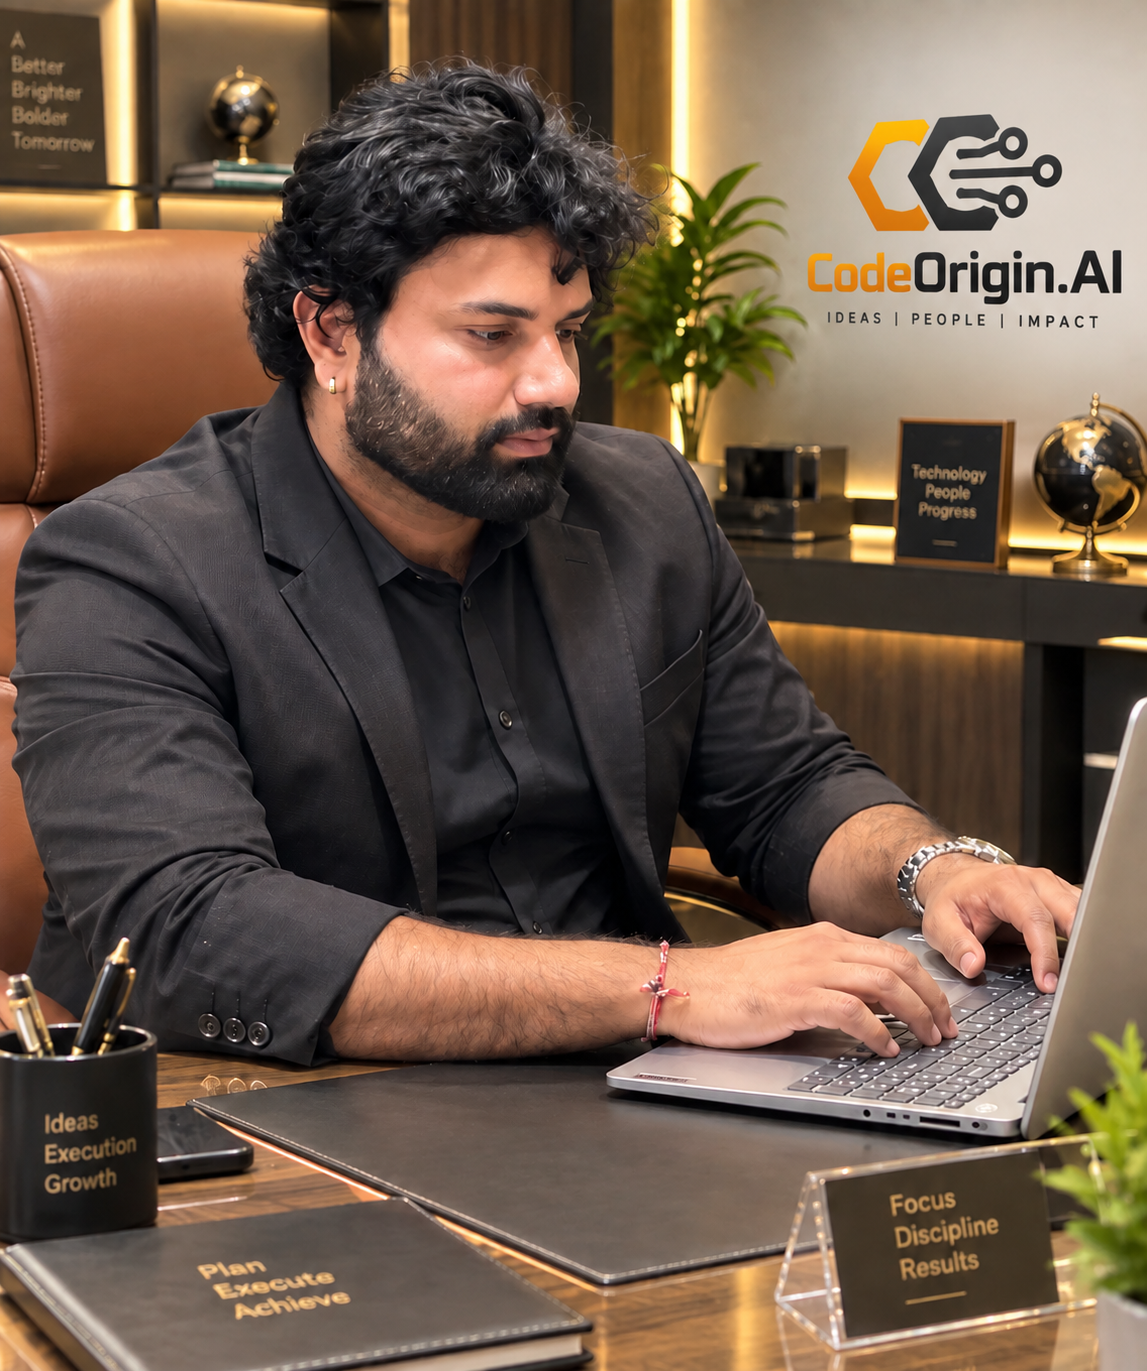
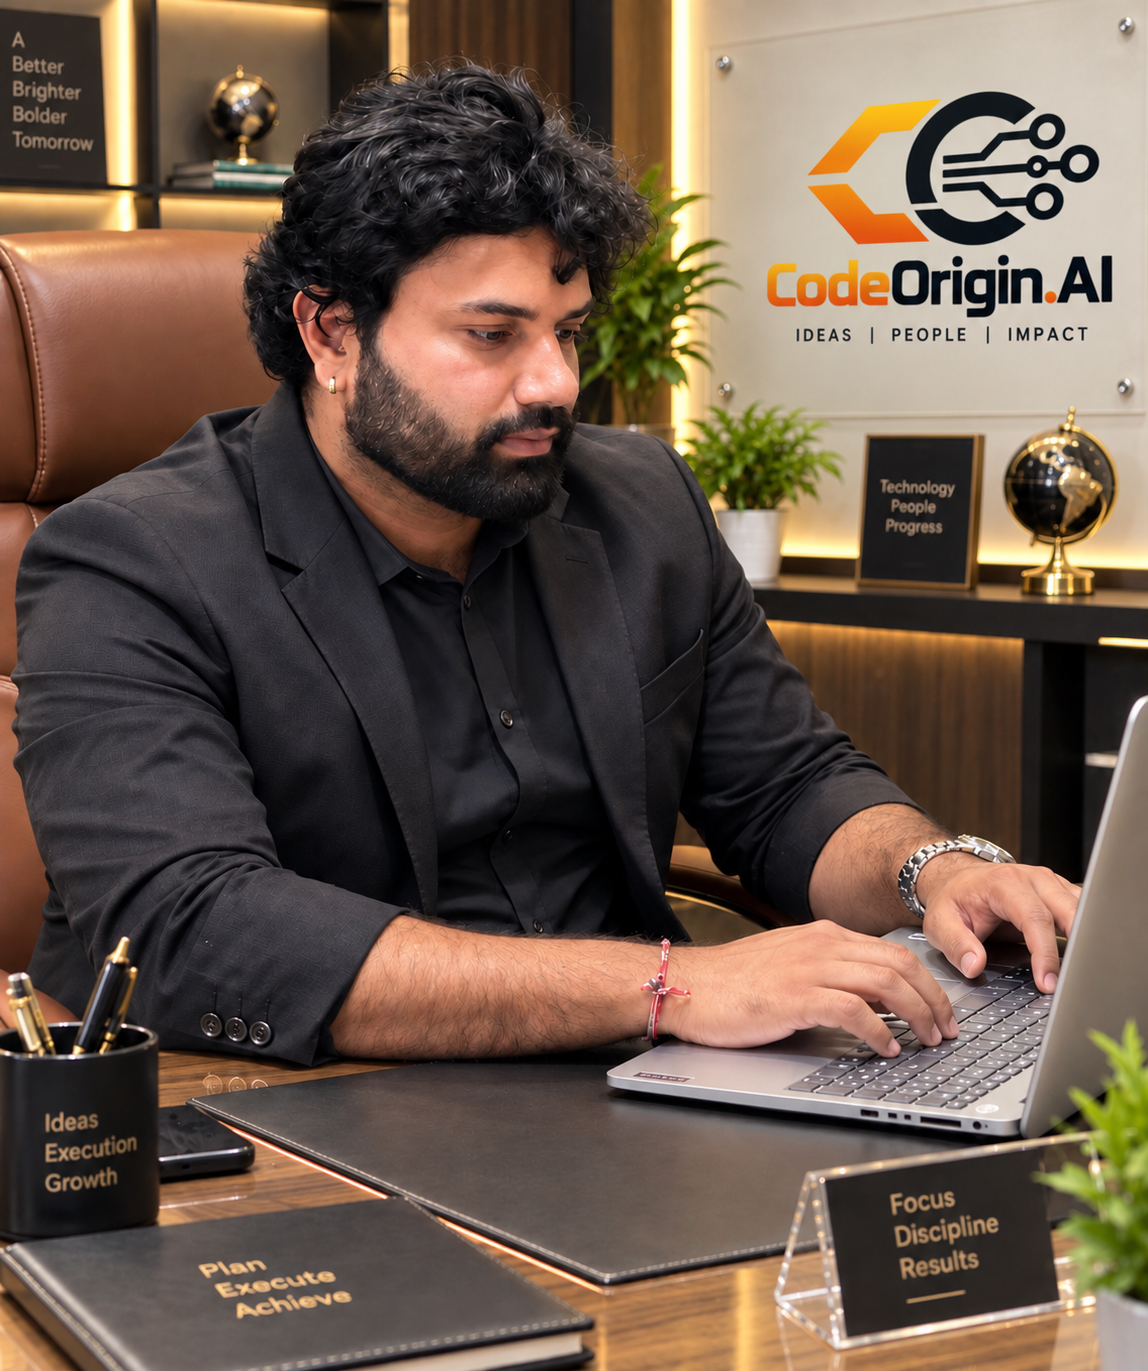
Use latest Raghavendra photo + upgrade Board of Directors to premium executive design
- Replaced leader-raghavendra.png with the founder's latest photo (correct logo);
  removed the space-named upload. data.ts path unchanged (/images/leader-raghavendra.png)
- Redesigned director cards to a corporate executive style (not fresher-level):
  * Name + role overlaid on the portrait with an animated gold accent line
    (expands on hover)
  * Subtle desaturate-to-colour on hover (grayscale-[0.2] -> 0) — a classic
    premium leadership-page treatment
  * Soft gold sheen + refined lift/shadow; 'Co-Founder' chip; focus line footer
  * Fully responsive 1->2->3 cols; images lazy-loaded + decoding async

Verified: image is the new file, 0 unused imports, type check clean (only the
known @types/react 'key' env note). No layout regressions.

diff --git a/src/components/Leadership.tsx b/src/components/Leadership.tsx
@@ -64,30 +64,36 @@ export default function Leadership() {
         <div className="mx-auto mt-12 grid max-w-5xl gap-6 sm:grid-cols-2 lg:grid-cols-3">
           {directors.map((d, i) => (
             <Reveal key={d.name} delay={(i % 3) * 90}>
-              <figure className="group relative flex h-full flex-col overflow-hidden rounded-3xl border border-gold-500/20 bg-gradient-to-b from-white/[0.05] to-white/[0.01] transition duration-500 hover:-translate-y-2 hover:border-gold-500/45 hover:shadow-2xl hover:shadow-gold-500/10">
-                {/* Portrait */}
+              <figure className="group relative flex h-full flex-col overflow-hidden rounded-2xl border border-gold-500/15 bg-ink-900/40 transition-all duration-500 hover:-translate-y-1.5 hover:border-gold-500/40 hover:shadow-2xl hover:shadow-gold-500/10">
+                {/* Executive portrait with name/role overlay */}
                 <div className="relative aspect-[4/5] overflow-hidden">
                   <img
                     src={d.image}
                     alt={`${d.name} — ${d.role}, Code Origin.AI`}
                     loading="lazy"
                     decoding="async"
-                    className="h-full w-full object-cover object-top transition-transform duration-700 group-hover:scale-105"
+                    className="h-full w-full object-cover object-top grayscale-[0.2] transition-all duration-700 ease-out group-hover:scale-[1.04] group-hover:grayscale-0"
                   />
-                  <div className="absolute inset-0 bg-gradient-to-t from-ink-950 via-ink-950/20 to-transparent" />
-                  <span className="absolute left-4 top-4 rounded-full bg-ink-950/70 px-3 py-1 text-[10px] font-semibold uppercase tracking-wider text-gold-300 ring-1 ring-gold-500/30 backdrop-blur-sm">
+                  {/* readability gradient */}
+                  <div className="pointer-events-none absolute inset-0 bg-gradient-to-t from-ink-950 via-ink-950/45 to-transparent" />
+                  {/* subtle gold sheen on hover */}
+                  <div className="pointer-events-none absolute inset-0 bg-gradient-to-t from-gold-500/10 to-transparent opacity-0 transition-opacity duration-500 group-hover:opacity-100" />
+
+                  <span className="absolute left-4 top-4 inline-flex items-center rounded-full bg-ink-950/60 px-3 py-1 text-[10px] font-semibold uppercase tracking-[0.15em] text-gold-300 ring-1 ring-gold-500/25 backdrop-blur-sm">
                     Co-Founder
                   </span>
+
+                  <figcaption className="absolute inset-x-0 bottom-0 p-5">
+                    <span className="block h-[3px] w-9 rounded-full bg-gradient-to-r from-gold-500 to-gold-300 transition-all duration-500 group-hover:w-16" />
+                    <h4 className="mt-3 font-display text-xl font-bold leading-tight text-white">{d.name}</h4>
+                    <p className="mt-0.5 text-sm font-semibold text-gold-300">{d.role}</p>
+                  </figcaption>
                 </div>
 
-                {/* Details */}
-                <figcaption className="flex flex-1 flex-col p-6">
-                  <h4 className="font-display text-lg font-bold text-white">{d.name}</h4>
-                  <p className="mt-1 text-sm font-semibold text-gold-400">{d.role}</p>
-                  <p className="mt-3 border-t border-gold-500/10 pt-3 text-sm leading-relaxed text-stone-400">
-                    {d.focus}
-                  </p>
-                </figcaption>
+                {/* Focus / responsibility */}
+                <div className="flex flex-1 items-center border-t border-gold-500/10 p-5">
+                  <p className="text-sm leading-relaxed text-stone-400">{d.focus}</p>
+                </div>
               </figure>
             </Reveal>
           ))}
